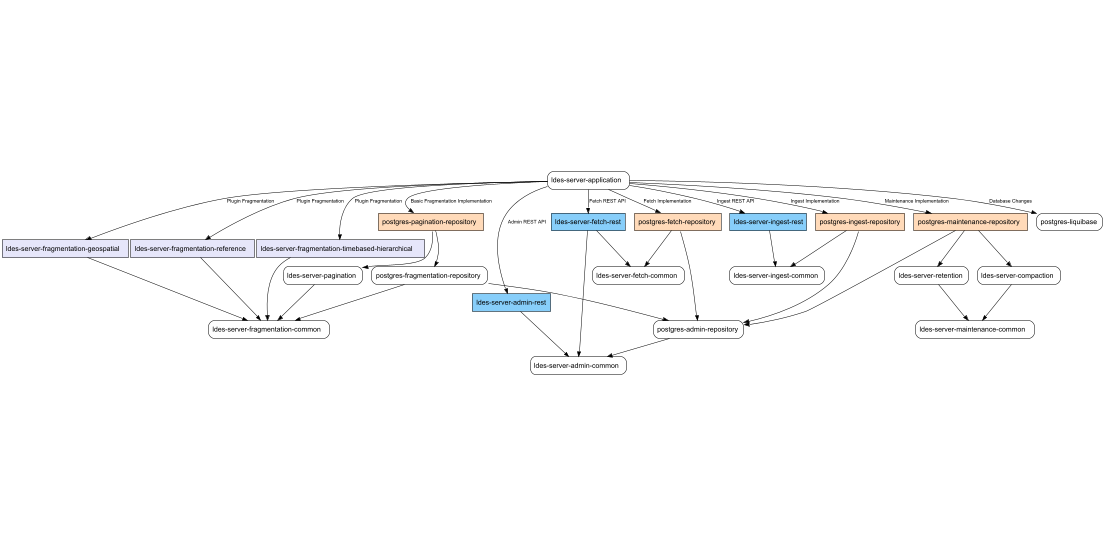
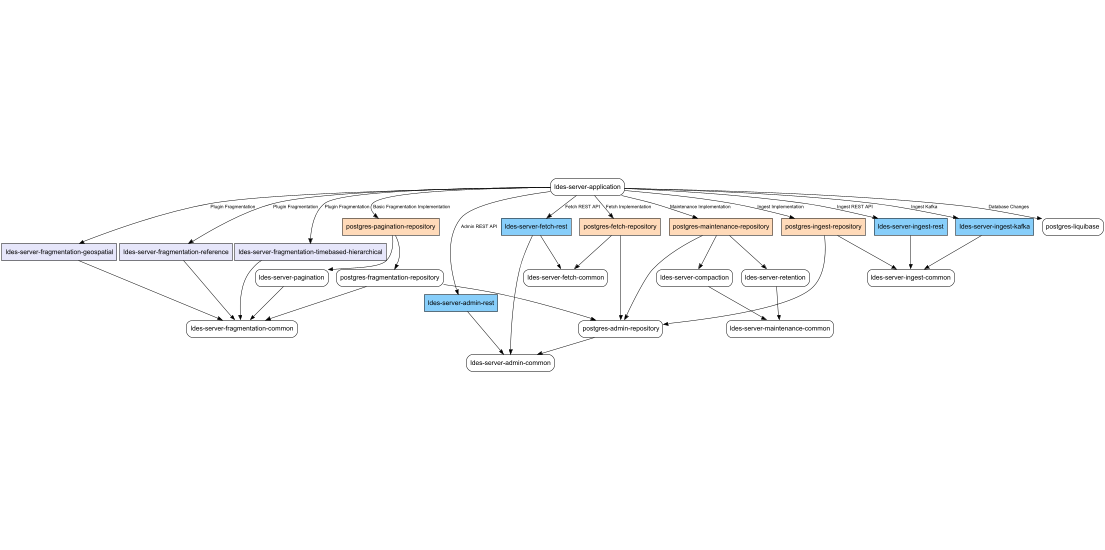
docs: documentation effort

Changed region(s): [[0.0, 0.3114, 1.0, 0.685], [0.8308, 0.5604, 0.9231, 0.6227], [0.1231, 0.3736, 0.1538, 0.4048]]

diff --git a/ldes-server-ingest/ldes-server-ingest-kafka/src/main/java/be/vlaanderen/informatievlaanderen/ldes/server/ingest/kafka/controller/KafkaConsumerController.java b/ldes-server-ingest/ldes-server-ingest-kafka/src/main/java/be/vlaanderen/informatievlaanderen/ldes/server/ingest/kafka/controller/KafkaConsumerController.java
@@ -12,7 +12,6 @@ import org.springframework.web.bind.annotation.*;
 import java.util.List;
 import java.util.Optional;
 import java.util.UUID;
-import java.util.stream.Collectors;
 
 @RestController
 @RequestMapping(path = "/consumers")
@@ -38,7 +37,7 @@ public class KafkaConsumerController {
 		return kafkaListenerContainerManager.listContainers()
 				.stream()
 				.map(this::createKafkaConsumerResponse)
-				.collect(Collectors.toList());
+				.toList();
 	}
 
 	@GetMapping(path="/{listenerId}")

diff --git a/README.md b/README.md
@@ -52,18 +52,19 @@ Each maven profile represents a different functionality of the LDES server that 
 The default exported image contains all the profiles, but a custom image can be created with only the needed
 dependencies.
 
-| Profile                    | Dependencies                                           | Description                                                                                                                 |
-|----------------------------|--------------------------------------------------------|-----------------------------------------------------------------------------------------------------------------------------|
-| `fragmentation`            | `postgres-pagination-repository`                       | Allows basic fragmentation (pagination)                                                                                     |
-| `maintenance`              | `postgres-maintenance-repository`                      | Allows the LDES server to perform maintenance operations on its Event Streams and Members: compaction, retention, deletion. |
-| **Interfaces**             |                                                        |                                                                                                                             |
-| `http-admin`               | `ldes-server-admin-rest`,`postgres-admin-repository`*  | Gives access to REST API to create and manage Event Streams and Views.                                                      |
-| `http-ingest`              | `ldes-server-ingest-rest`,`postgres-ingest-repository` | Gives access to REST API to ingest members into the LDES.                                                                   |
-| `http-fetch`               | `ldes-server-fetch-rest`,`postgres-fetch-repository`   | Gives access to REST API to fetch Event Streams, its Views and pages.                                                       |
-| **Plugin Fragmentations**  |                                                        |                                                                                                                             |
-| `fragmentation-timebased`  | `ldes-server-fragmentation-timebased-hierarchical`     | Allows fragmentation in based on a timebased property.                                                                      |
-| `fragmentation-geospatial` | `ldes-server-fragmentation-geospatial`                 | Allows fragmentation in based on a geospatial property.                                                                     |
-| `fragmentation-reference`  | `ldes-server-fragmentation-reference`                  | Allows fragmentation in based on a textual property.                                                                        |
+| Profile                    | Dependencies                                            | Description                                                                                                                 |
+|----------------------------|---------------------------------------------------------|-----------------------------------------------------------------------------------------------------------------------------|
+| `fragmentation`            | `postgres-pagination-repository`                        | Allows basic fragmentation (pagination)                                                                                     |
+| `maintenance`              | `postgres-maintenance-repository`                       | Allows the LDES server to perform maintenance operations on its Event Streams and Members: compaction, retention, deletion. |
+| **Interfaces**             |                                                         |                                                                                                                             |
+| `http-admin`               | `ldes-server-admin-rest`,`postgres-admin-repository`*   | Gives access to REST API to create and manage Event Streams and Views.                                                      |
+| `http-ingest`              | `ldes-server-ingest-rest`,`postgres-ingest-repository`  | Gives access to REST API to ingest members into the LDES.                                                                   |
+| `kafka-ingest`             | `ldes-server-ingest-kafka`,`postgres-ingest-repository` | Allows Kafka member ingestion into the LDES.                                                                                |
+| `http-fetch`               | `ldes-server-fetch-rest`,`postgres-fetch-repository`    | Gives access to REST API to fetch Event Streams, its Views and pages.                                                       |
+| **Plugin Fragmentations**  |                                                         |                                                                                                                             |
+| `fragmentation-timebased`  | `ldes-server-fragmentation-timebased-hierarchical`      | Allows fragmentation in based on a timebased property.                                                                      |
+| `fragmentation-geospatial` | `ldes-server-fragmentation-geospatial`                  | Allows fragmentation in based on a geospatial property.                                                                     |
+| `fragmentation-reference`  | `ldes-server-fragmentation-reference`                   | Allows fragmentation in based on a textual property.                                                                        |
 
 
 *: The `postgres-admin-repository`, as shown by the dependency graph, will be loaded in by the other above-mentioned functionality profiles. 

diff --git a/docs/_ingest/kafka.md b/docs/_ingest/kafka.md
@@ -1,0 +1,70 @@
+---
+layout: default
+title: Ingest Members With Kafka
+nav_order: 0
+---
+
+# Ingest Members With Kafka
+
+Ingesting members into an Event Stream without too much overhead? 
+That's now possible via ingestion over Apache Kafka.
+
+## Getting Started
+
+To get started with ingesting members via Kafka, you need to have the following:
+* Kafka consumer configuration (in the Application Properties)
+* Event Stream configuration pointing to a Kafka topic (in the Admin API) 
+
+### Application Properties
+
+The Kafka consumer configuration can be set in the `application.properties` file.
+
+The most basic properties that are needed are:
+````yaml
+spring.kafka.consumer.bootstrap-servers=localhost:9092
+spring.kafka.consumer.group-id=my-group
+````
+
+To guarantee that the Kafka consumer will always read from the beginning of the topic, you can add the following property:
+````yaml
+spring.kafka.consumer.auto-offset-reset=earliest
+````
+
+For more advanced options to configure advanced Kafka connections, please refer to the [Spring Kafka documentation](https://docs.spring.io/spring-boot/appendix/application-properties/index.html).
+
+### Event Stream Configuration
+
+To configure a new Event Stream that uses Kafka as the ingestion method, 
+you need to create an Event Stream configuration that points to a Kafka topic. \
+This can be done by adding a `https://w3id.org/ldes#KafkaEventStream` object to the Event Stream configuration.
+
+This object should contain the following properties:
+* `ldes:topic` - The Kafka topic to which the members should be ingested.
+* `ldes:mimeType` - The mime type in which the data of your topic will be. This is used to parse your member to a model. \
+    This can be `application/ld+json`, `application/json`, `text/turtle`, ... \
+    All members in your topic need to therefor be in one mime type.
+
+#### Example
+
+Creating a generic Event Stream named "event-stream" that uses Kafka as the ingestion method.
+    
+````turtle
+@prefix ldes:           <https://w3id.org/ldes#> .
+@prefix dcterms:        <http://purl.org/dc/terms/> .
+@prefix prov:           <http://www.w3.org/ns/prov#> .
+@prefix tree:           <https://w3id.org/tree#>.
+@prefix sh:             <http://www.w3.org/ns/shacl#> .
+@prefix server:         <http://localhost:8080/> .
+@prefix xsd:            <http://www.w3.org/2001/XMLSchema#> .
+@prefix event-stream:   <http://localhost:8080/event-stream/> .
+
+server:event-stream a ldes:EventStream ;
+	ldes:timestampPath dcterms:created ;
+	ldes:versionOfPath dcterms:isVersionOf ;
+	tree:shape [ a sh:NodeShape ] ;
+        ldes:kafkaSource [
+		ldes:topic "testTopic" ;
+		ldes:mimeType "application/n-quads" ;
+	] .
+
+````

diff --git a/docs/_configuration/event-stream.md b/docs/_configuration/event-stream.md
@@ -64,6 +64,10 @@ server:generic-eventstream a ldes:EventStream ;
 genericES:shape a sh:NodeShape .
 ````
 
+## Configuring an Event Stream with a Kafka source
+
+To configure an Event Stream that ingests members from a Kafka topic, please visit the [Kafka Ingest documentation](../ingest/kafka).
+
 ## Configuring a SHACL Shape
 
 [SHACL (Shapes Constraint Language)](https://www.w3.org./TR/shacl/) is a standard for validating RDF data and ensuring
